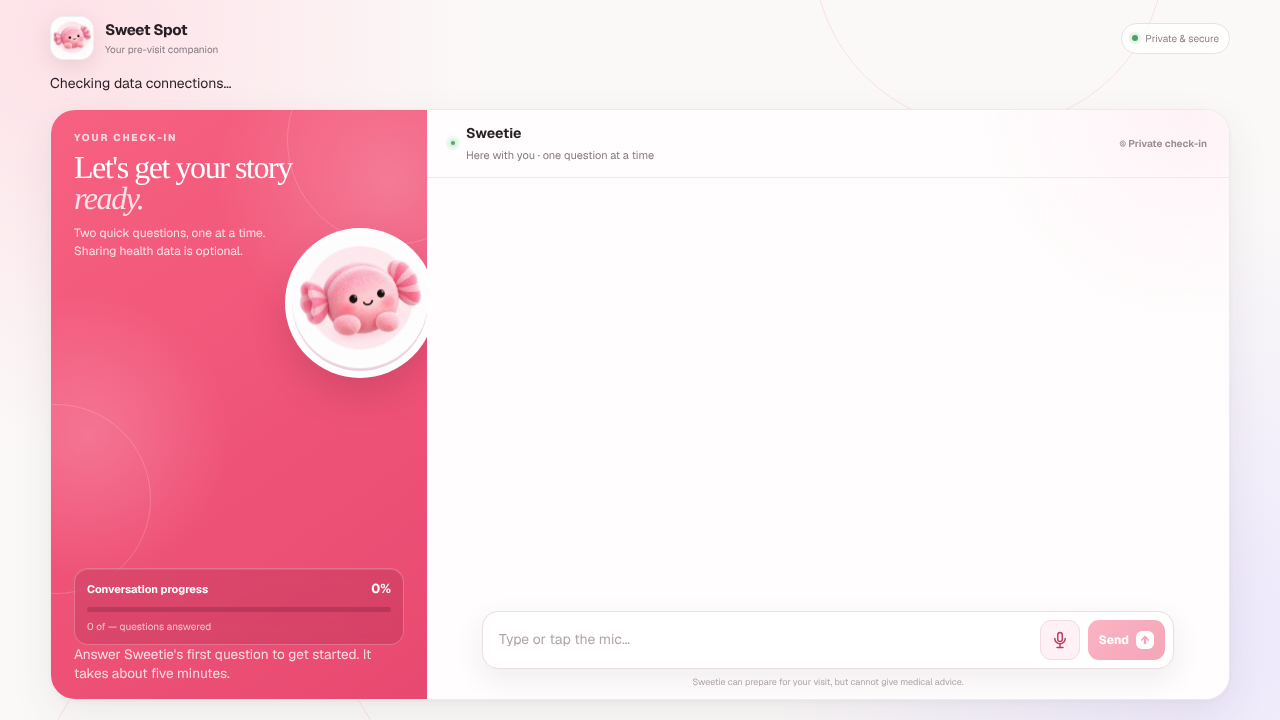
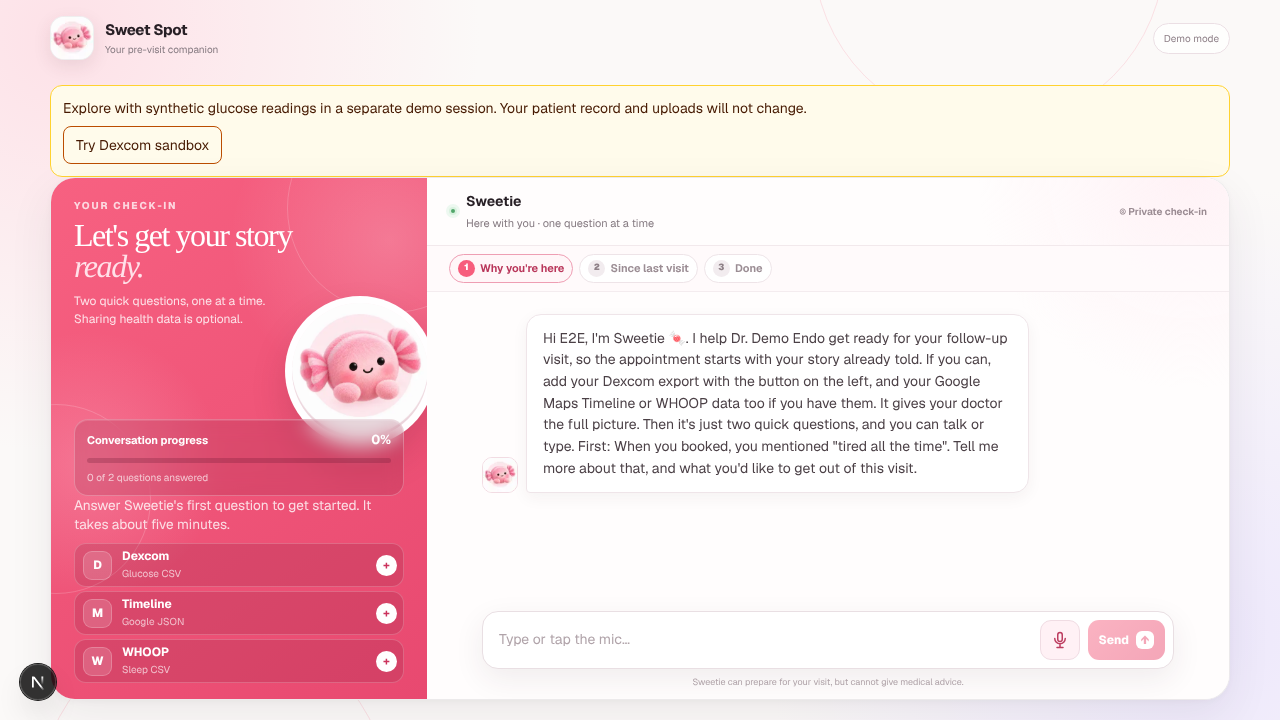
Review: wait for Sweetie's first question before the sweetie-start screenshot
Same shape as the two loading-state screenshots this branch already fixed, missed on the third screen:
toContainText(/Sweetie/i) matches the page chrome, so the shot was taken before GET /api/sweetie answered — and
that GET is what writes the opening question and returns the field list. The committed screenshot showed an empty
transcript and "0 of — questions answered" rather than the first question its caption describes.

Waits on the greeting in .sweetie-messages, not on the question count: the count element is hidden by CSS on the
mobile project. The 30s timeout covers the dev server's first compile of the route, which went past Playwright's
5s default every time with two workers.

Also restores the *.db ignore rules. SQLite is gone from the app, but a prisma/dev.db left over from before the
switch still holds whatever was in it, and it is now neither tracked nor ignored (design §10.6).

docs/screenshots/tickets/t01/desktop-sweetie-start.png is replaced with the one this change produces.

Claude-Session: https://claude.ai/code/session_018JWoANieMEEjytMmhqySmw

diff --git a/e2e/flows.spec.ts b/e2e/flows.spec.ts
@@ -49,6 +49,13 @@ test("patient flow: Sweetie two questions in scripted mode, then summary", async
 
   await page.goto(`/s/${booked.token}`);
   await expect(page.locator("body")).toContainText(/Sweetie/i);
+  // "Sweetie" is in the chrome, so it matches before the intake has loaded. GET /api/sweetie is what writes the
+  // opening question and returns the field list, and until it answers the transcript is empty and the progress
+  // card reads "0 of — questions answered". Wait for the greeting itself, so the screenshot is of the first
+  // question rather than of the shell around it. The generous timeout is for the dev server's first compile of
+  // the route, and the greeting is used rather than the question count because the count is hidden by CSS on the
+  // mobile layout.
+  await expect(page.locator(".sweetie-messages")).toContainText(/Hi E2E/, { timeout: 30_000 });
   await shot(page, "sweetie-start");
 
   const input = page.locator("input[type='text'], input:not([type]), textarea").first();
